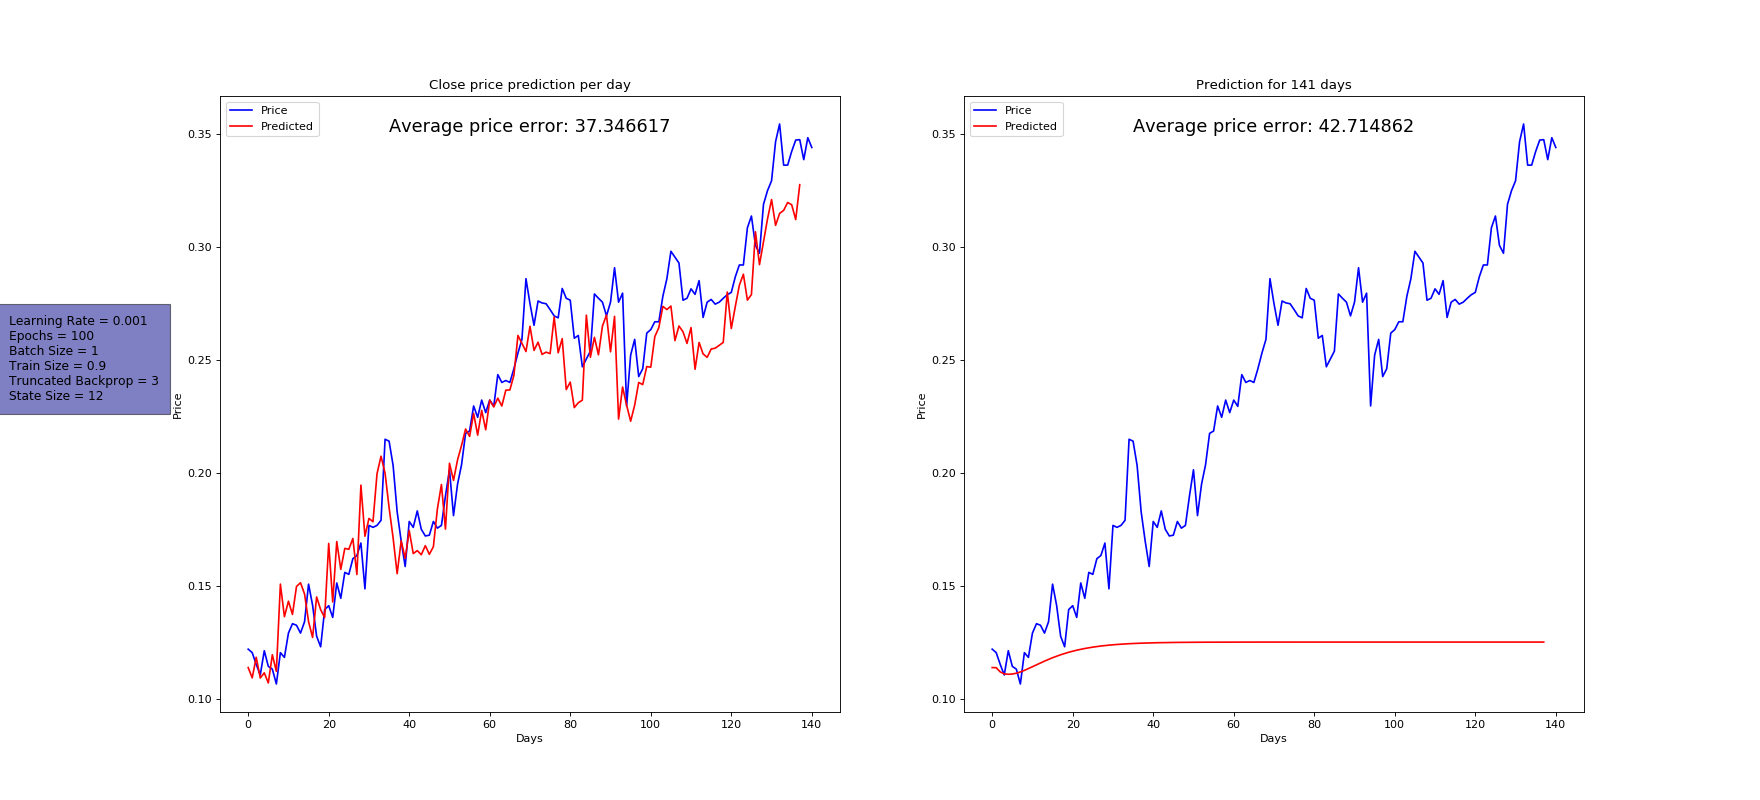
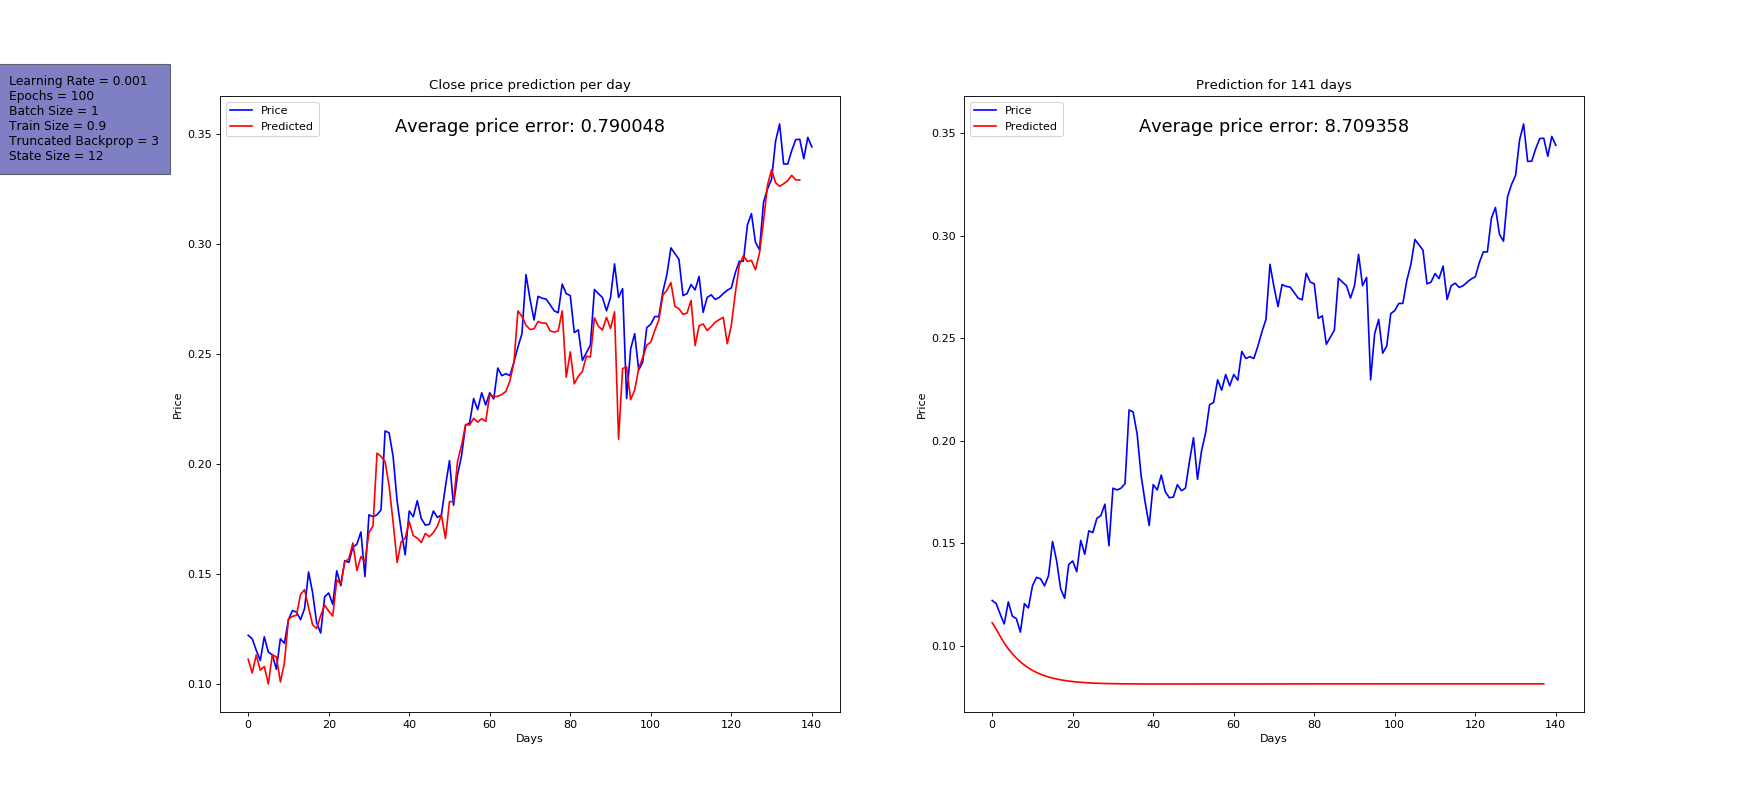
Add stock trading test with virtual money

diff --git a/models/tensorflow_tests/stock_predictor.py b/models/tensorflow_tests/stock_predictor.py
@@ -6,7 +6,7 @@ import os
 
 outfile = "prediction.png"
 outfolder = "output"
-infile = "KNYJF_alltargets.csv"
+infile = "GOOG_alltargets.csv"
 infolder = "stock" # ("stock" / "currency")
 
 learning_rate = 0.001
@@ -49,7 +49,7 @@ def prepare_data():
     return xTrain, xTest, yTrain, yTest, test_prices
 
 
-def model(nn_mode="lstm"):
+def model():
     batchX_placeholder = tf.placeholder(dtype=tf.float32,
                                         shape=[None, truncated_backprop_length, num_features],
                                         name='data_ph')
@@ -61,12 +61,7 @@ def model(nn_mode="lstm"):
     b2 = tf.Variable(   initial_value=np.random.rand(1, num_classes),
                         dtype=tf.float32)
     labels_series = tf.unstack(batchY_placeholder, axis=1)
-
-    if nn_mode == "lstm":
-        cell = tf.contrib.rnn.LSTMCell(num_units=state_size)
-    elif nn_mode == "rnn":
-        cell = tf.contrib.rnn.BasicRNNCell(num_units=state_size)
-
+    cell = tf.contrib.rnn.LSTMCell(num_units=state_size)
     states_series, current_state = tf.nn.dynamic_rnn(   cell=cell,
                                                         inputs=batchX_placeholder,
                                                         dtype=tf.float32)
@@ -130,7 +125,7 @@ def train_and_test( loss, train_step, prediction, last_label, last_state,
             test_pred = prediction.eval(feed_dict={batchX_placeholder : testBatchX})
             test_days_pred_list.append(test_pred[-1][0])
 
-            test_days_differences.append(abs(testBatchY[0][-1][0] - test_days_pred_list[-1]))
+            test_days_differences.append(testBatchY[0][-1][0] - test_days_pred_list[-1])
 
         # Test per day
         for test_idx in range(len(xTest) - truncated_backprop_length):
@@ -143,7 +138,7 @@ def train_and_test( loss, train_step, prediction, last_label, last_state,
             _last_state, _last_label, test_pred = sess.run([last_state, last_label, prediction], feed_dict=feed)
             test_day_pred_list.append(test_pred[-1][0])
 
-            test_day_differences.append(abs(testBatchY[0][-1][0] - test_day_pred_list[-1]))
+            test_day_differences.append(testBatchY[0][-1][0] - test_day_pred_list[-1])
 
     return test_day_pred_list, test_days_pred_list, test_day_differences, test_days_differences
 
@@ -154,8 +149,8 @@ def plot_prediction(day, days, test_prices, day_differences, days_differences):
     ax1 = fig.add_subplot(1, 2, 1)
     ax2 = fig.add_subplot(1, 2, 2)
 
-    day_price_error = sum(day_differences) / len(day_differences) * (dataset["Close"].max() - dataset["Close"].min()) + dataset["Close"].min()
-    days_price_error = sum(days_differences) / len(days_differences) * (dataset["Close"].max() - dataset["Close"].min()) + dataset["Close"].min()
+    day_price_error = sum(day_differences) / len(day_differences) * (dataset["Close"].max() - dataset["Close"].min())
+    days_price_error = sum(days_differences) / len(days_differences) * (dataset["Close"].max() - dataset["Close"].min())
 
     ax1.set_xlabel("Days")
     ax1.set_ylabel("Price")
@@ -181,13 +176,44 @@ def plot_prediction(day, days, test_prices, day_differences, days_differences):
     ax2.plot(days, label='Predicted', color='red')
     ax2.legend(loc='upper left')
 
-    plt.figtext(0.005, 0.5, """Learning Rate = {}\nEpochs = {}\nBatch Size = {}\nTrain Size = {}\nTruncated Backprop = {}\nState Size = {}""".format(
+    plt.figtext(0.005, 0.8, """Learning Rate = {}\nEpochs = {}\nBatch Size = {}\nTrain Size = {}\nTruncated Backprop = {}\nState Size = {}""".format(
                         learning_rate, num_epochs, batch_size, train_size,
                         truncated_backprop_length, state_size), bbox={'facecolor': 'darkblue', 'alpha': 0.5, 'pad': 10},
                         fontsize=11)
 
     plt.savefig(os.path.join(outfolder, outfile))
     plt.show()
+
+def norm_to_original(scalar):
+    return scalar * (dataset["Close"].max() - dataset["Close"].min()) + dataset["Close"].min()
+
+def calculate_profit(day_diff, test_prices):
+    starting_money = 5000
+    current_money = starting_money
+    current_price = norm_to_original(test_prices[0])
+    num_shares = starting_money/ current_price
+
+    for count, d in enumerate(day_diff):
+        current_price = norm_to_original(test_prices[count])
+        if d < 0 and num_shares > 0:
+            print("Selling")
+            current_money = num_shares * current_price
+            num_shares = 0
+        elif d > 0 and num_shares == 0:
+            print("Buying")
+            num_shares = current_money / current_price
+            current_money = 0
+        else:
+            print("Idle")
+
+        total_worth = current_money + (num_shares * current_price)
+        total_profit = total_worth / starting_money * 100 - 100
+        print("Current price: {}\nCurrent money: {}\nCurrent shares: {}\nTotal worth: {}\nTotal profit: {} %".format(int(current_price), int(current_money), int(num_shares), int(total_worth), int(total_profit)))
+        print("")
+
+
+
+
 
 
 if __name__ == "__main__":
@@ -198,4 +224,5 @@ if __name__ == "__main__":
                                 placeholder_x, placeholder_y,
                                 trainX, testX, trainY, testY)
 
+    calculate_profit(test_day_differences, prices)
     plot_prediction(day, days, prices, test_day_differences, test_days_differences)
